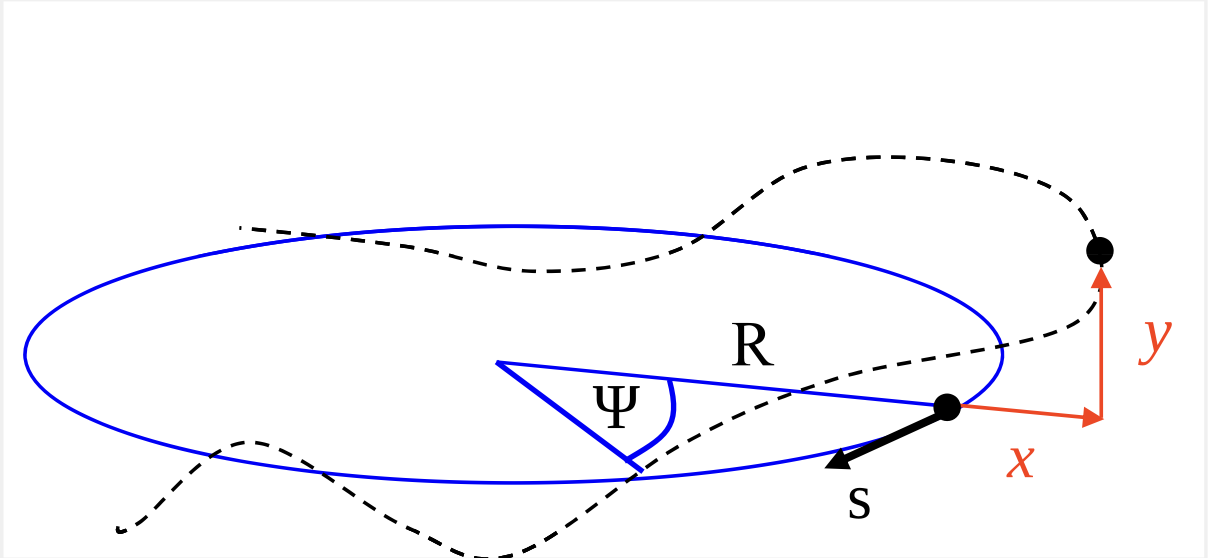
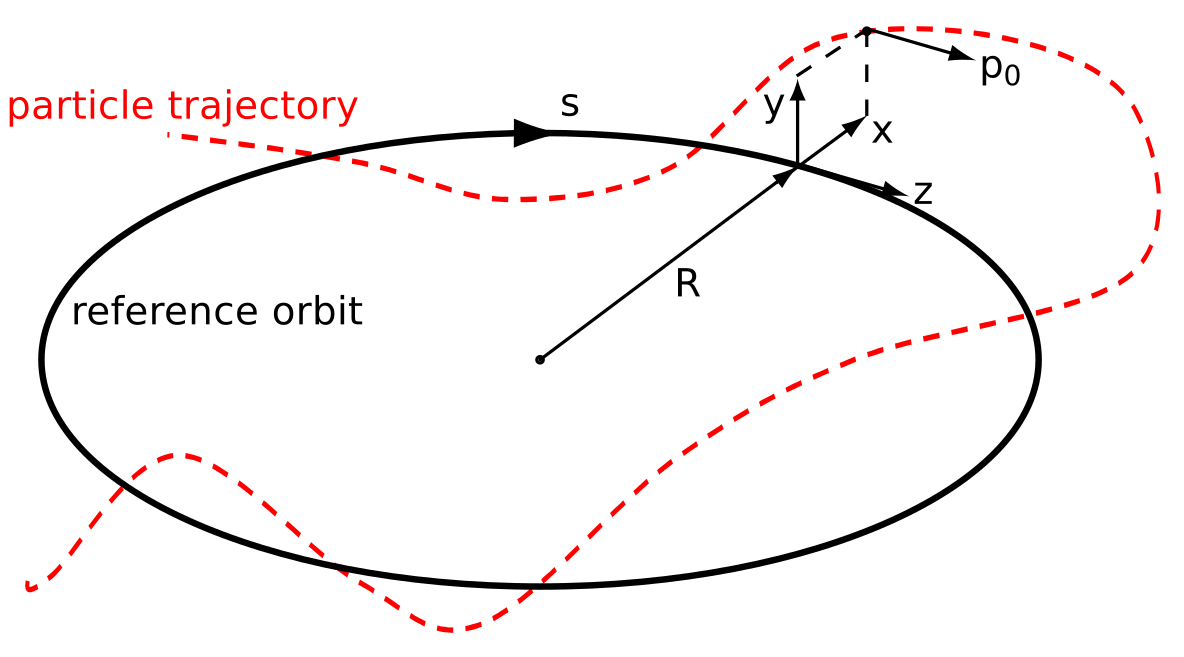
add filled slides after lecture

diff --git a/lecture1/lecture.slides.html b/lecture1/lecture.slides.html
@@ -7482,11 +7482,9 @@ via the public mybinder.org service: <br/>
 <ol>
 <li>Intro to Accelerators</li>
 <li>Accelerator Types</li>
-<li>Applications</li>
-<li>Energy Scales</li>
+<li>Facilities and Applications</li>
 <li>Time Scales</li>
 </ol>
-<!--3. Modelling a Pendulum ($\leadsto$ rf cavities focusing a beam)-->
 </div>
 </div>
 </div>
@@ -7561,7 +7559,7 @@ via the public mybinder.org service: <br/>
 </div>
 <div class="jp-InputArea jp-Cell-inputArea"><div class="jp-InputPrompt jp-InputArea-prompt">
 </div><div class="jp-RenderedHTMLCommon jp-RenderedMarkdown jp-MarkdownOutput" data-mime-type="text/markdown">
-<h2>What characterises a "<i>particle accelerator</i>"?</h2>
+<h2>What fields make a "<i>particle accelerator</i>"?</h2>
 <p>$$\begin{matrix}\,\text{beam self fields} &amp;&gt;&amp; \text{external applied fields} &amp;\text{(plasma)} \\
 \text{beam self fields} &amp;\ll&amp; \text{external applied fields}&amp; \text{(accelerator)}\end{matrix}$$</p>
 <p>$\implies$ <b>perturbation technique</b> applicable to higher-energy accelerators:</p>
@@ -7686,6 +7684,7 @@ via the public mybinder.org service: <br/>
 </div>
 <div class="jp-InputArea jp-Cell-inputArea"><div class="jp-InputPrompt jp-InputArea-prompt">
 </div><div class="jp-RenderedHTMLCommon jp-RenderedMarkdown jp-MarkdownOutput" data-mime-type="text/markdown">
+<h2>Overview: beam control in accelerators</h2>
 <div style="width: 20%; float: right;">
 <a href="https://dx.doi.org/10.17181/cds.1709737"><img alt="RF cavities" src="./img/vid-rfcavities.png" style="width: 100%;"/></a>
 <br/>
@@ -7693,8 +7692,8 @@ via the public mybinder.org service: <br/>
 <br/>
 <a href="https://dx.doi.org/10.17181/cds.1750723"><img alt="Quadrupoles" src="./img/vid-quadrupole.png" style="width: 100%;"/></a>
 </div>
-<h2>Overview: beam control in accelerators</h2>
-<p>3 key beamline elements, exploiting Lorentz force $F=q(\mathbf{E}+\mathbf{v}\times\mathbf{B})$:</p>
+<p>3 key beamline elements, exploiting Lorentz force:</p>
+<p>$$F=q(\mathbf{E}+\mathbf{v}\times\mathbf{B})$$</p>
 <ol>
 <li><a href="https://dx.doi.org/10.17181/cds.1709737">radio-frequency (rf) cavities for <b>bunching and acceleration</b></a></li>
 <li><a href="https://dx.doi.org/10.17181/cds.1709735">dipole magnets for <b>steering</b></a></li>
@@ -7707,6 +7706,22 @@ via the public mybinder.org service: <br/>
 </div>
 </div>
 </div></section></section><section><section>
+<div class="jp-Cell jp-MarkdownCell jp-Notebook-cell" id="cell-id=afdf2fb5">
+<div class="jp-Cell-inputWrapper" tabindex="0">
+<div class="jp-Collapser jp-InputCollapser jp-Cell-inputCollapser">
+</div>
+<div class="jp-InputArea jp-Cell-inputArea"><div class="jp-InputPrompt jp-InputArea-prompt">
+</div><div class="jp-RenderedHTMLCommon jp-RenderedMarkdown jp-MarkdownOutput" data-mime-type="text/markdown">
+<h2>Circular accelerator: spot the 3 key beamline elements</h2>
+<div style="width: 90%; margin: 1em auto; vertical-alignment: middle;">
+<img alt="CERN Low Energy Ion Ring Layout" src="./img/leir-layout.png" style="width: 35%; float: left; margin: 0 auto;"/>
+<img alt="CERN Low Energy Ion Ring Photo" src="./img/leir.jpg" style="width: 50%; float: left; margin: 0 auto;"/>
+<p style="clear: both;"></p>
+</div>
+</div>
+</div>
+</div>
+</div></section></section><section><section>
 <div class="jp-Cell jp-MarkdownCell jp-Notebook-cell" id="cell-id=d5669f48">
 <div class="jp-Cell-inputWrapper" tabindex="0">
 <div class="jp-Collapser jp-InputCollapser jp-Cell-inputCollapser">
@@ -7715,6 +7730,100 @@ via the public mybinder.org service: <br/>
 </div><div class="jp-RenderedHTMLCommon jp-RenderedMarkdown jp-MarkdownOutput" data-mime-type="text/markdown">
 <h2>One "Electron Volt"</h2>
 <p>1 eV $=$ gained kinetic <b>energy</b> of particle with elementary charge after traversing 1 V potential difference</p>
+</div>
+</div>
+</div>
+</div></section></section><section><section>
+<div class="jp-Cell jp-MarkdownCell jp-Notebook-cell" id="cell-id=1090051d">
+<div class="jp-Cell-inputWrapper" tabindex="0">
+<div class="jp-Collapser jp-InputCollapser jp-Cell-inputCollapser">
+</div>
+<div class="jp-InputArea jp-Cell-inputArea"><div class="jp-InputPrompt jp-InputArea-prompt">
+</div><div class="jp-RenderedHTMLCommon jp-RenderedMarkdown jp-MarkdownOutput" data-mime-type="text/markdown">
+<h2>Wave Lengths for Probing Structures</h2>
+<p><img alt="energy scales photons" src="./img/scale.jpg" style="width:80%; margin: 1em auto;"/></p>
+</div>
+</div>
+</div>
+</div></section></section><section><section>
+<div class="jp-Cell jp-MarkdownCell jp-Notebook-cell" id="cell-id=e238ad7a">
+<div class="jp-Cell-inputWrapper" tabindex="0">
+<div class="jp-Collapser jp-InputCollapser jp-Cell-inputCollapser">
+</div>
+<div class="jp-InputArea jp-Cell-inputArea"><div class="jp-InputPrompt jp-InputArea-prompt">
+</div><div class="jp-RenderedHTMLCommon jp-RenderedMarkdown jp-MarkdownOutput" data-mime-type="text/markdown">
+<h2>Energy Scales</h2>
+<p>$\implies$ Use photons just as well as electrons or protons/neutrons/ions (matter waves!) to probe</p>
+</div>
+</div>
+</div>
+</div><div class="jp-Cell jp-CodeCell jp-Notebook-cell jp-mod-noOutputs" id="cell-id=50fa7433">
+<div class="jp-Cell-inputWrapper" tabindex="0">
+<div class="jp-Collapser jp-InputCollapser jp-Cell-inputCollapser">
+</div>
+<div class="jp-InputArea jp-Cell-inputArea">
+<div class="jp-InputPrompt jp-InputArea-prompt">In [1]:</div>
+<div class="jp-CodeMirrorEditor jp-Editor jp-InputArea-editor" data-type="inline">
+<div class="cm-editor cm-s-jupyter">
+<div class="highlight hl-ipython3"><pre><span></span><span class="kn">from</span><span class="w"> </span><span class="nn">scipy.constants</span><span class="w"> </span><span class="kn">import</span> <span class="n">h</span><span class="p">,</span> <span class="n">c</span><span class="p">,</span> <span class="n">e</span><span class="p">,</span> <span class="n">m_n</span>
+</pre></div>
+</div>
+</div>
+</div>
+</div>
+</div>
+<div class="jp-Cell jp-MarkdownCell jp-Notebook-cell" id="cell-id=42998f03">
+<div class="jp-Cell-inputWrapper" tabindex="0">
+<div class="jp-Collapser jp-InputCollapser jp-Cell-inputCollapser">
+</div>
+<div class="jp-InputArea jp-Cell-inputArea"><div class="jp-InputPrompt jp-InputArea-prompt">
+</div><div class="jp-RenderedHTMLCommon jp-RenderedMarkdown jp-MarkdownOutput" data-mime-type="text/markdown">
+<div class="alert alert-block alert-success" style="text-align: center;">
+    de Broglie wave length: $\lambda = \cfrac{h}{p}$ with relativistic momentum $p=\gamma m v$ and kinetic energy $E_{kin}=\sqrt{p^2c^2+m^2c^4}-mc^2$
+</div>
+</div>
+</div>
+</div>
+</div><div class="jp-Cell jp-CodeCell jp-Notebook-cell jp-mod-noOutputs" id="cell-id=a8975e52">
+<div class="jp-Cell-inputWrapper" tabindex="0">
+<div class="jp-Collapser jp-InputCollapser jp-Cell-inputCollapser">
+</div>
+<div class="jp-InputArea jp-Cell-inputArea">
+<div class="jp-InputPrompt jp-InputArea-prompt">In [2]:</div>
+<div class="jp-CodeMirrorEditor jp-Editor jp-InputArea-editor" data-type="inline">
+<div class="cm-editor cm-s-jupyter">
+<div class="highlight hl-ipython3"><pre><span></span><span class="n">lambda_</span> <span class="o">=</span> <span class="mf">1e-10</span> <span class="c1"># wave length in m</span>
+<span class="n">mass</span> <span class="o">=</span> <span class="n">m_n</span> <span class="c1"># mass (e.g. neutron, m_n)</span>
+</pre></div>
+</div>
+</div>
+</div>
+</div>
+</div><div class="jp-Cell jp-CodeCell jp-Notebook-cell" id="cell-id=edee6c8c">
+<div class="jp-Cell-inputWrapper" tabindex="0">
+<div class="jp-Collapser jp-InputCollapser jp-Cell-inputCollapser">
+</div>
+<div class="jp-InputArea jp-Cell-inputArea">
+<div class="jp-InputPrompt jp-InputArea-prompt">In [3]:</div>
+<div class="jp-CodeMirrorEditor jp-Editor jp-InputArea-editor" data-type="inline">
+<div class="cm-editor cm-s-jupyter">
+<div class="highlight hl-ipython3"><pre><span></span><span class="n">p</span> <span class="o">=</span> <span class="p">(</span><span class="n">h</span> <span class="o">/</span> <span class="n">lambda_</span> <span class="o">/</span> <span class="p">(</span><span class="n">e</span><span class="o">/</span><span class="n">c</span><span class="p">))</span> <span class="c1"># momentum in eV/c</span>
+<span class="n">Ekin</span> <span class="o">=</span> <span class="p">((</span><span class="n">p</span><span class="o">**</span><span class="mi">2</span> <span class="o">*</span> <span class="n">c</span><span class="o">**</span><span class="mi">2</span> <span class="o">+</span> <span class="n">mass</span><span class="o">**</span><span class="mi">2</span> <span class="o">*</span> <span class="n">c</span><span class="o">**</span><span class="mi">4</span><span class="p">)</span> <span class="o">-</span> <span class="n">mass</span> <span class="o">*</span> <span class="n">c</span><span class="o">**</span><span class="mi">2</span> <span class="p">)</span> <span class="o">*</span> <span class="n">e</span>
+<span class="sa">f</span><span class="s2">"momentum p=</span><span class="si">{</span><span class="n">p</span><span class="si">:</span><span class="s2">.2e</span><span class="si">}</span><span class="s2"> eV/c, energy Ekin=</span><span class="si">{</span><span class="n">Ekin</span><span class="si">:</span><span class="s2">.2e</span><span class="si">}</span><span class="s2"> eV"</span>
+</pre></div>
+</div>
+</div>
+</div>
+</div>
+<div class="jp-Cell-outputWrapper">
+<div class="jp-Collapser jp-OutputCollapser jp-Cell-outputCollapser">
+</div>
+<div class="jp-OutputArea jp-Cell-outputArea">
+<div class="jp-OutputArea-child jp-OutputArea-executeResult">
+<div class="jp-OutputPrompt jp-OutputArea-prompt">Out[3]:</div>
+<div class="jp-RenderedText jp-OutputArea-output jp-OutputArea-executeResult" data-mime-type="text/plain" tabindex="0">
+<pre>'momentum p=1.24e+04 eV/c, energy Ekin=2.21e+06 eV'</pre>
+</div>
 </div>
 </div>
 </div>
@@ -7933,16 +8042,28 @@ via the public mybinder.org service: <br/>
 </div>
 </div>
 </div>
-</div><div class="jp-Cell jp-CodeCell jp-Notebook-cell jp-mod-noOutputs" id="cell-id=97996a8e">
+</div><div class="jp-Cell jp-CodeCell jp-Notebook-cell" id="cell-id=97996a8e">
 <div class="jp-Cell-inputWrapper" tabindex="0">
 <div class="jp-Collapser jp-InputCollapser jp-Cell-inputCollapser">
 </div>
 <div class="jp-InputArea jp-Cell-inputArea">
-<div class="jp-InputPrompt jp-InputArea-prompt">In [ ]:</div>
+<div class="jp-InputPrompt jp-InputArea-prompt">In [4]:</div>
 <div class="jp-CodeMirrorEditor jp-Editor jp-InputArea-editor" data-type="inline">
 <div class="cm-editor cm-s-jupyter">
-<div class="highlight hl-ipython3"><pre><span></span> 
+<div class="highlight hl-ipython3"><pre><span></span><span class="s2">"</span><span class="si">%e</span><span class="s2"> turns"</span> <span class="o">%</span> <span class="p">(</span><span class="mi">57</span> <span class="o">*</span> <span class="mi">60</span> <span class="o">*</span> <span class="mi">60</span> <span class="o">*</span> <span class="n">c</span> <span class="o">/</span> <span class="mf">27e3</span><span class="p">)</span>
 </pre></div>
+</div>
+</div>
+</div>
+</div>
+<div class="jp-Cell-outputWrapper">
+<div class="jp-Collapser jp-OutputCollapser jp-Cell-outputCollapser">
+</div>
+<div class="jp-OutputArea jp-Cell-outputArea">
+<div class="jp-OutputArea-child jp-OutputArea-executeResult">
+<div class="jp-OutputPrompt jp-OutputArea-prompt">Out[4]:</div>
+<div class="jp-RenderedText jp-OutputArea-output jp-OutputArea-executeResult" data-mime-type="text/plain" tabindex="0">
+<pre>'2.278423e+09 turns'</pre>
 </div>
 </div>
 </div>
@@ -7994,8 +8115,8 @@ via the public mybinder.org service: <br/>
 <h2>Summary</h2>
 <ol>
 <li>Intro to Accelerators<ul>
-<li>similarities to plasma physics</li>
-<li>importance of external fields</li>
+<li>similarities to plasma physics, importance of external fields</li>
+<li>rf cavities, dipole and quadrupole magnets</li>
 </ul>
 </li>
 <li>Accelerator Types<ul>
@@ -8004,13 +8125,12 @@ via the public mybinder.org service: <br/>
 <li>synchrotrons</li>
 </ul>
 </li>
-<li>Applications<ul>
+<li>Facilities &amp; Applications<ul>
 <li>light sources</li>
 <li>neutron spallation sources</li>
 <li>high-energy physics</li>
 </ul>
 </li>
-<li>Energy Scales</li>
 <li>Time Scales</li>
 </ol>
 </div>